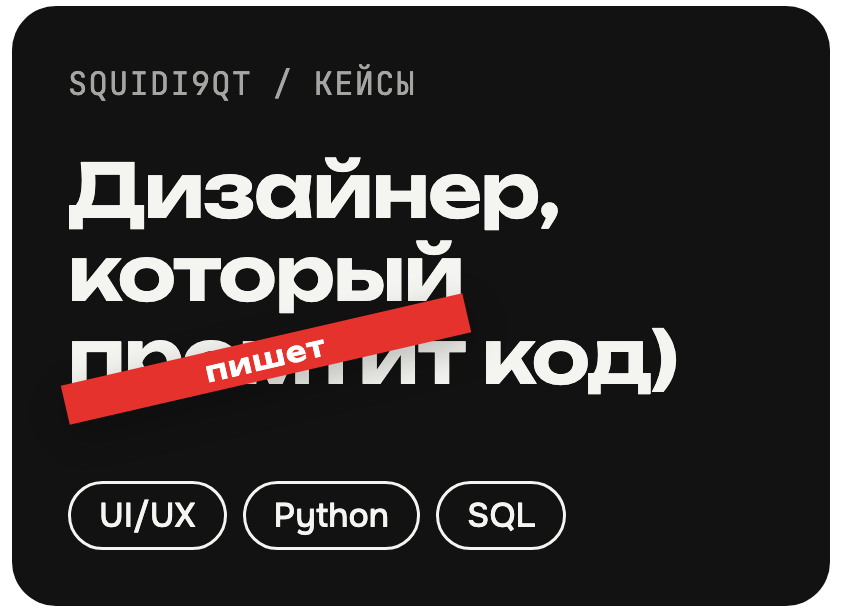
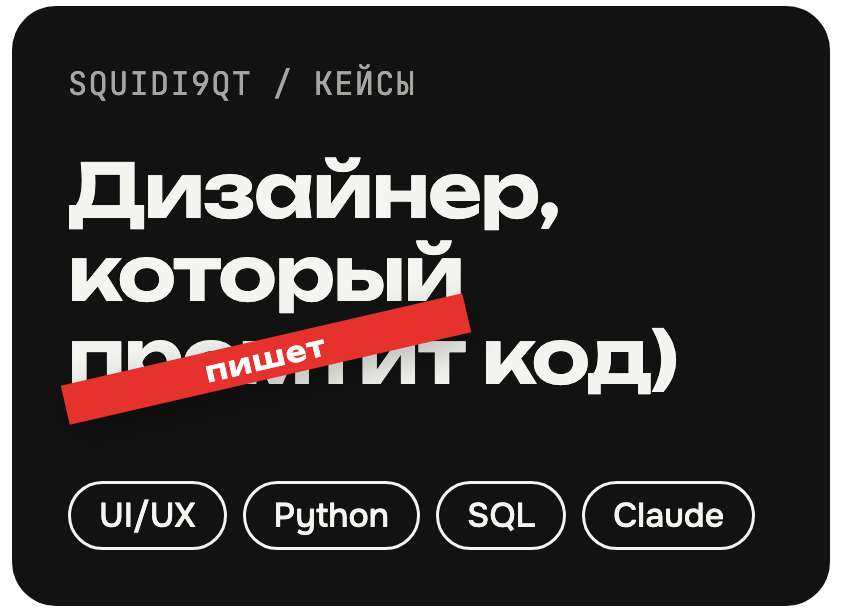
Тег Claude на главной плитке

Changed region(s): [[0.6793, 0.7761, 0.8955, 0.9003]]

diff --git a/README.md b/README.md
@@ -1,4 +1,4 @@
-<p align="center"><a href="https://github.com/Squidi9QT"><picture><source media="(prefers-color-scheme: dark)" srcset="assets/hero-dark.png"><img src="assets/hero-light.png" width="50.0%" alt="Squidi9QT: дизайнер, который промтит (зачёркнуто: пишет) код"></picture></a><a href="https://github.com/Squidi9QT/KuBoring"><img src="assets/kuboring-light.png" width="50.0%" alt="KuBoring: шторка у выреза для macOS"></a><br><a href="https://github.com/Squidi9QT/KubPlay"><img src="assets/kubplay-light.png" width="33.37%" alt="KubPlay: игра, которая учит Python и SQL"></a><a href="https://github.com/Squidi9QT/BrandHub"><img src="assets/brandhub-light.png" width="33.25%" alt="BrandHub: аналитика рекламы в детском парке"></a><a href="https://github.com/Squidi9QT/job-analysis"><img src="assets/jobs-light.png" width="33.37%" alt="job-analysis: вакансии hh.ru с историей SCD2"></a><br><a href="https://github.com/Squidi9QT/Glassfox"><img src="assets/glassfox-light.png" width="37.05%" alt="Glassfox: Firefox в стиле Apple"></a><a href="https://github.com/Squidi9QT/Menu"><img src="assets/menu-light.png" width="32.54%" alt="Menu: меню для Claude Code"></a><a href="https://github.com/Squidi9QT/airport_simulation"><img src="assets/airport-light.png" width="30.4%" alt="airport_simulation: очередь в аэропорту на simpy"></a><br><a href="https://github.com/Squidi9QT"><picture><source media="(prefers-color-scheme: dark)" srcset="assets/stack-dark.png"><img src="assets/stack-light.png" width="100.0%" alt="Стек: требования, ERD, BI, Python, pandas, SQL, PostgreSQL, SQLite, SQLAlchemy, Jupyter, matplotlib, Plotly, Streamlit, pytest, REST API, Docker, Docker Compose, Git, GitHub Actions, Bash, Swift, JavaScript, HTML и CSS. Дизайн: UI/UX, Figma, Photoshop, 3ds Max, AutoCAD"></picture></a><br><a href="https://t.me/Squidi_t9"><img src="assets/telegram-light.png" width="33.37%" alt="Написать в Telegram: @Squidi_t9"></a><a href="mailto:kub.idrissov@gmail.com"><picture><source media="(prefers-color-scheme: dark)" srcset="assets/email-dark.png"><img src="assets/email-light.png" width="33.25%" alt="Почта: kub.idrissov@gmail.com"></picture></a><a href="https://github.com/Squidi9QT"><picture><source media="(prefers-color-scheme: dark)" srcset="assets/place-dark.png"><img src="assets/place-light.png" width="33.37%" alt="Томск (UTC+7) и Алматы (UTC+5)"></picture></a><br><a href="https://github.com/Squidi9QT"><picture><source media="(prefers-color-scheme: dark)" srcset="assets/signature-dark.png"><img src="assets/signature-light.png" width="100.0%" alt="Squidi9QT: дизайн, данные, код. Томск и Алматы"></picture></a></p>
+<p align="center"><a href="https://github.com/Squidi9QT"><picture><source media="(prefers-color-scheme: dark)" srcset="assets/hero-dark.png"><img src="assets/hero-light.png" width="50.0%" alt="Squidi9QT: дизайнер, который промтит код; слово «промтит» перечёркнуто лентой с надписью «пишет». Теги: UI/UX, Python, SQL, Claude"></picture></a><a href="https://github.com/Squidi9QT/KuBoring"><img src="assets/kuboring-light.png" width="50.0%" alt="KuBoring: шторка у выреза для macOS"></a><br><a href="https://github.com/Squidi9QT/KubPlay"><img src="assets/kubplay-light.png" width="33.37%" alt="KubPlay: игра, которая учит Python и SQL"></a><a href="https://github.com/Squidi9QT/BrandHub"><img src="assets/brandhub-light.png" width="33.25%" alt="BrandHub: аналитика рекламы в детском парке"></a><a href="https://github.com/Squidi9QT/job-analysis"><img src="assets/jobs-light.png" width="33.37%" alt="job-analysis: вакансии hh.ru с историей SCD2"></a><br><a href="https://github.com/Squidi9QT/Glassfox"><img src="assets/glassfox-light.png" width="37.05%" alt="Glassfox: Firefox в стиле Apple"></a><a href="https://github.com/Squidi9QT/Menu"><img src="assets/menu-light.png" width="32.54%" alt="Menu: меню для Claude Code"></a><a href="https://github.com/Squidi9QT/airport_simulation"><img src="assets/airport-light.png" width="30.4%" alt="airport_simulation: очередь в аэропорту на simpy"></a><br><a href="https://github.com/Squidi9QT"><picture><source media="(prefers-color-scheme: dark)" srcset="assets/stack-dark.png"><img src="assets/stack-light.png" width="100.0%" alt="Стек: требования, ERD, BI, Python, pandas, SQL, PostgreSQL, SQLite, SQLAlchemy, Jupyter, matplotlib, Plotly, Streamlit, pytest, REST API, Docker, Docker Compose, Git, GitHub Actions, Bash, Swift, JavaScript, HTML и CSS. Дизайн: UI/UX, Figma, Photoshop, 3ds Max, AutoCAD"></picture></a><br><a href="https://t.me/Squidi_t9"><img src="assets/telegram-light.png" width="33.37%" alt="Написать в Telegram: @Squidi_t9"></a><a href="mailto:kub.idrissov@gmail.com"><picture><source media="(prefers-color-scheme: dark)" srcset="assets/email-dark.png"><img src="assets/email-light.png" width="33.25%" alt="Почта: kub.idrissov@gmail.com"></picture></a><a href="https://github.com/Squidi9QT"><picture><source media="(prefers-color-scheme: dark)" srcset="assets/place-dark.png"><img src="assets/place-light.png" width="33.37%" alt="Томск (UTC+7) и Алматы (UTC+5)"></picture></a><br><a href="https://github.com/Squidi9QT"><picture><source media="(prefers-color-scheme: dark)" srcset="assets/signature-dark.png"><img src="assets/signature-light.png" width="100.0%" alt="Squidi9QT: дизайн, данные, код. Томск и Алматы"></picture></a></p>
 
 ## Кейсы
 
